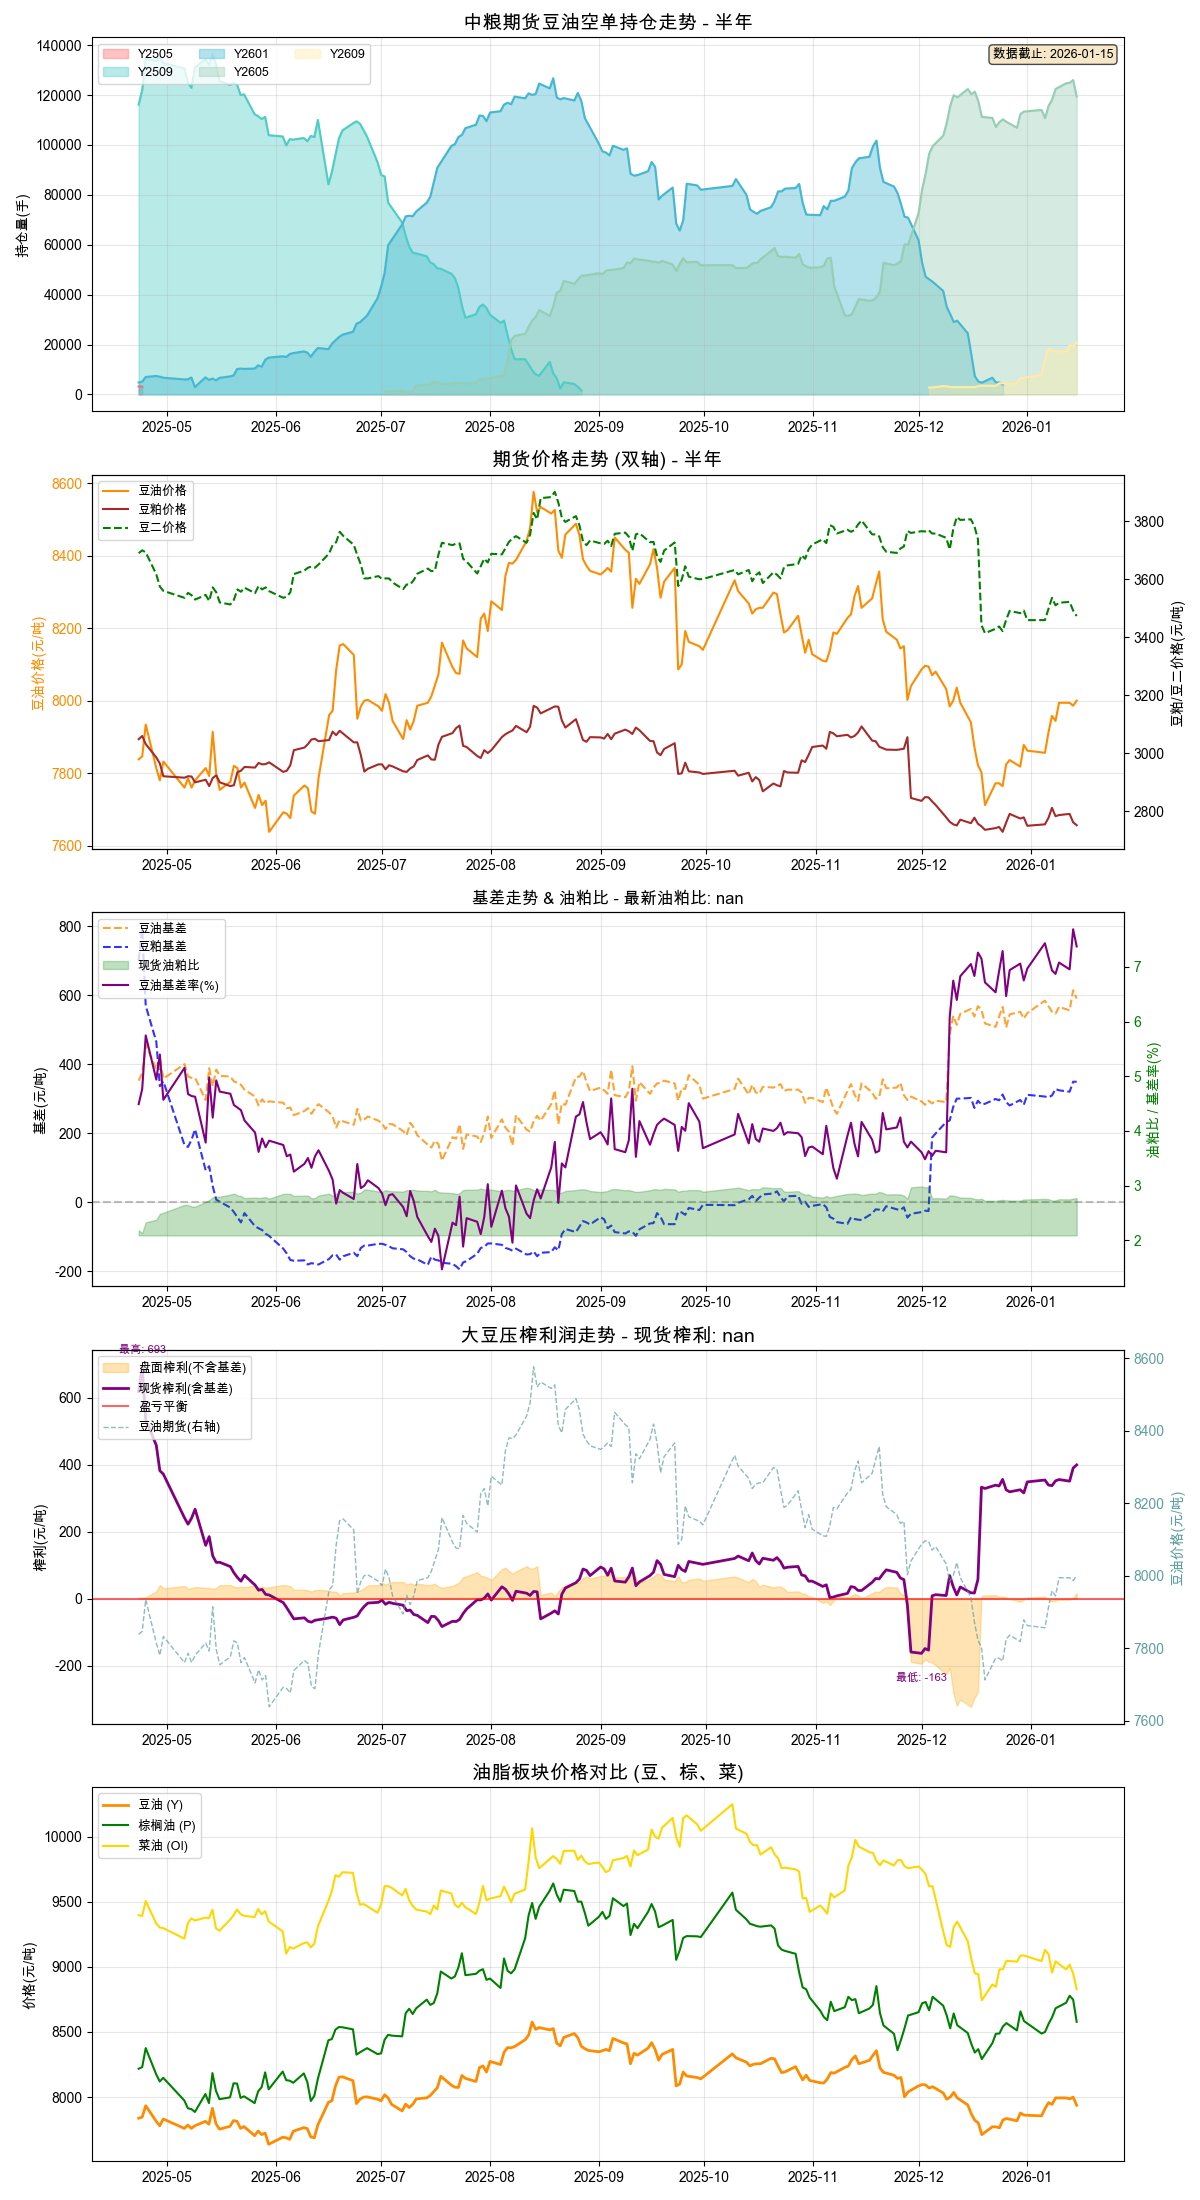
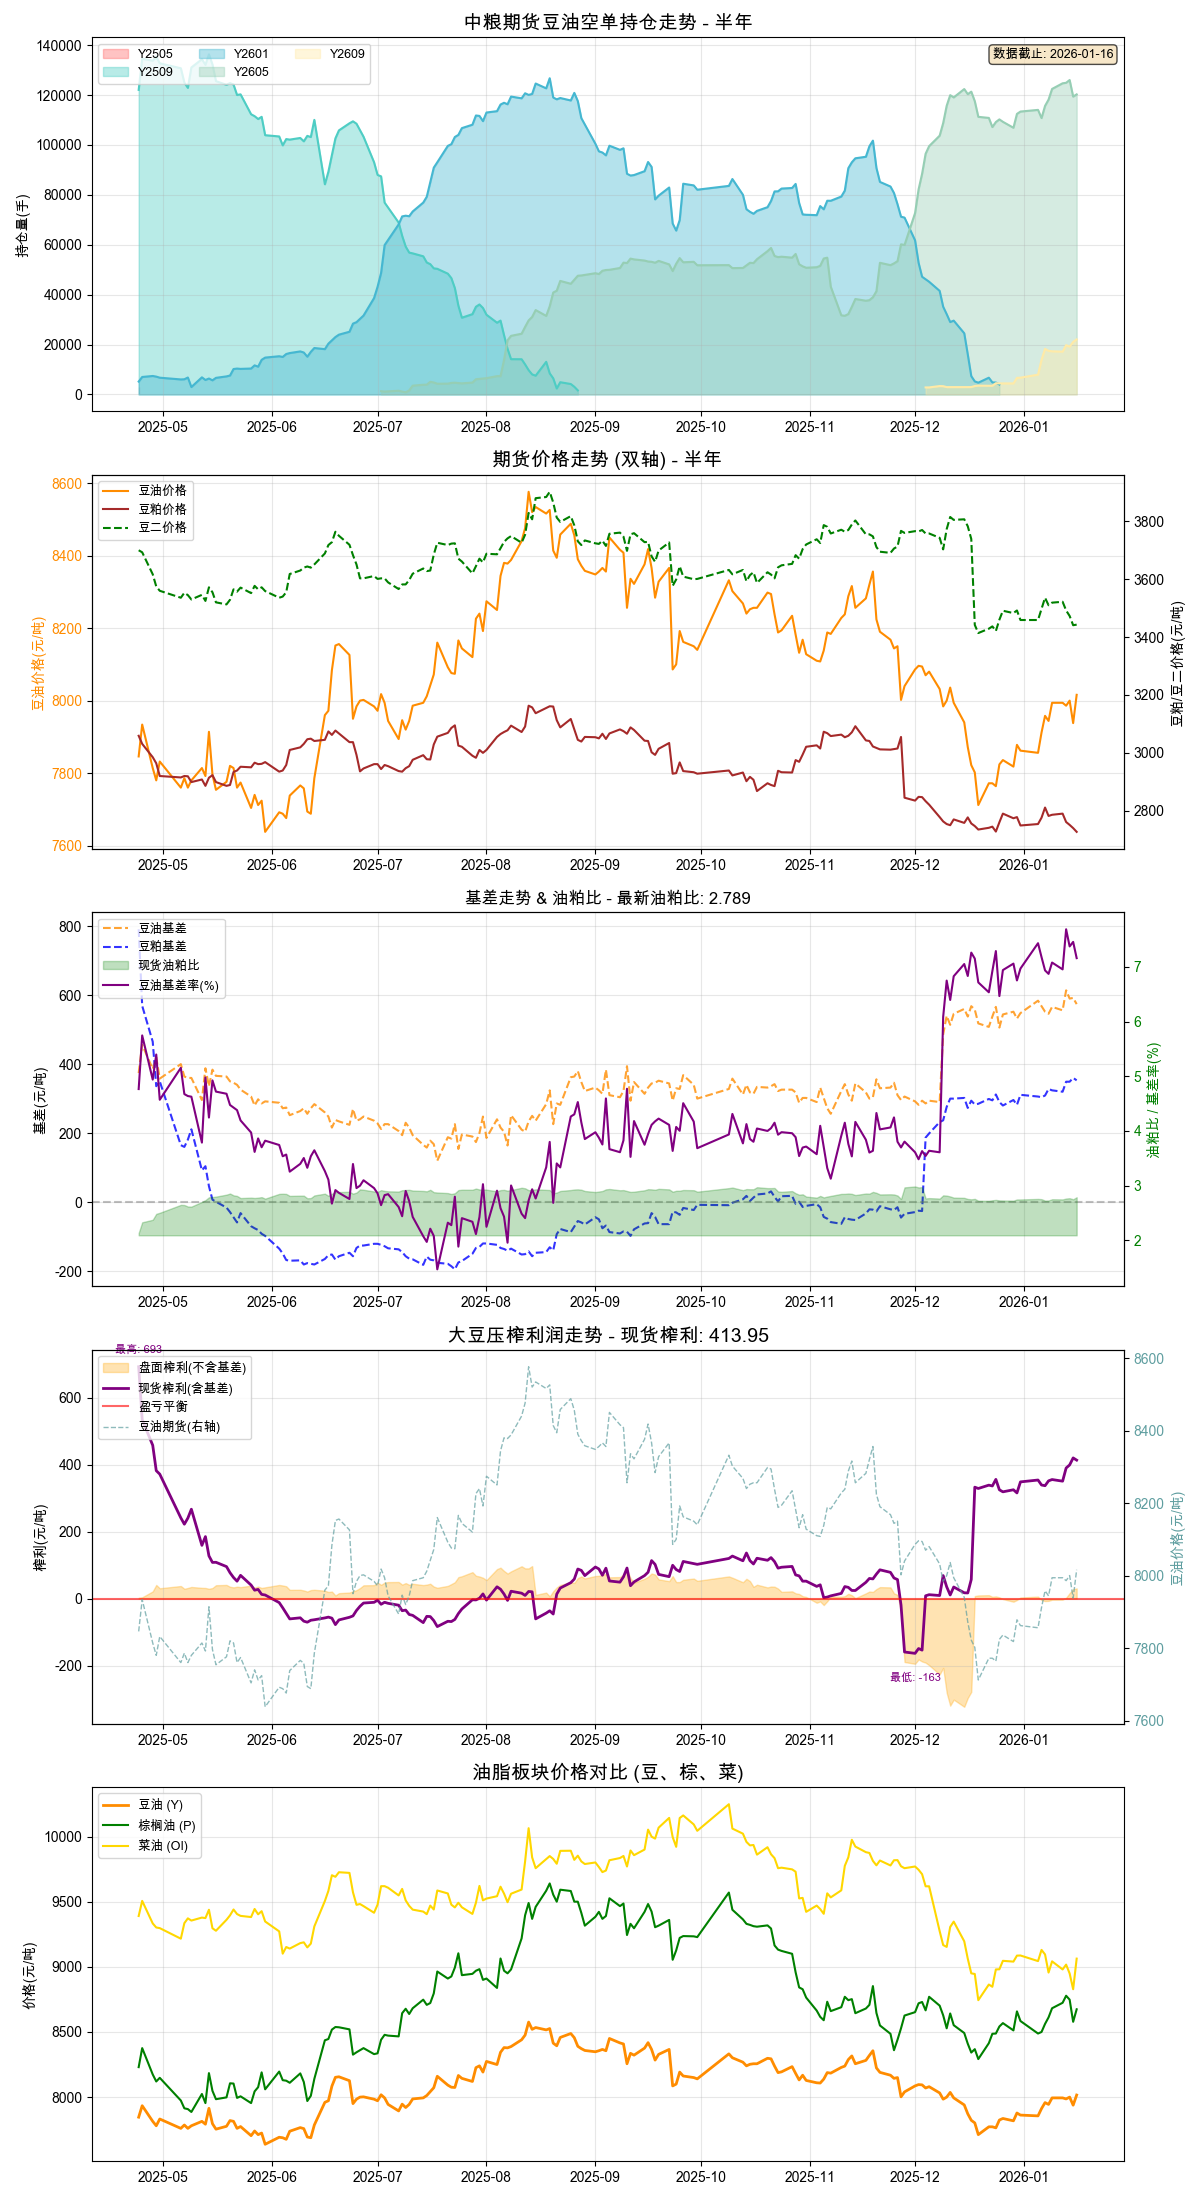
更新: 内容更新 2026-01-17 21:29:31

diff --git a/content/posts/榨利深度分析报告.md b/content/posts/榨利深度分析报告.md
@@ -1,7 +1,7 @@
 ---
 title: "🫘大豆榨利深度分析报告"
-date: 2026-01-16T21:47:51+08:00
-lastmod: 2026-01-16T21:47:51+08:00
+date: 2026-01-16T21:22:43+08:00
+lastmod: 2026-01-16T21:22:43+08:00
 description: "自动化生成的压榨利润深度报告，引用原始版本高精绘图和 DeepSeek AI 逻辑。"
 draft: false
 categories: ["期货分析"]
@@ -18,53 +18,7 @@ image: /images/charts/margin_chart_半年.png
 
 ## 🤖 AI 首席分析师解读
 
-# 大豆压榨利润深度点评：高利润下的策略分化与风险审视
-
-## 一、 利润周期定位：处于历史高位，均值回归压力凸显
-
-**当前榨利（413.95元/吨）** 远超半年均值（78.18元/吨），并已逼近半年区间上沿（693元/吨）。从周期角度看，当前利润水平处于**显著高估区间**。71.1%的半年胜率表明，过去半年维持正向榨利是大概率事件，但当前利润已透支了大部分利好预期。这种极端高位通常由**原料成本（大豆）与产成品（豆油、豆粕）价格阶段性错配**驱动，往往不可持续。历史经验表明，当榨利触及区间上沿后，通常会通过“大豆价格上涨”或“豆油/豆粕价格下跌”的路径进行均值回归。
-
-**核心判断**：当前榨利是**周期性高点而非新常态**，油厂应视为锁定利润的窗口期，而非扩张产能的信号。
-
-## 二、 基差结构分析：油强粕弱格局下的利润拆解与策略影响
-
-最新基差呈现 **“豆油极端强势（+574），豆粕相对中性（+353）”** 的格局。这对油厂利润策略产生截然不同的影响：
-
-1.  **对已点价（采购）大豆的油厂**：
-    *   **高豆油基差是利润核心贡献点**。现货豆油价格大幅升水期货，油厂在现货市场的销售利润极为丰厚。这鼓励油厂**加快豆油现货销售节奏，甚至超卖**，以兑现高基差红利。同时，可在期货盘面对等建立豆油多头头寸，以维持未来的库存风险敞口。
-    *   **豆粕基差提供稳定支撑**。353的基差水平虽不及豆油亮眼，但仍处于健康区间，保证了豆粕现货销售的利润基础，使得整体压榨利润“锦上添花”。
-
-2.  **对未点价（待采购）大豆的油厂**：
-    *   **高基差构成巨大风险**。当前高利润建立在现货产成品价格高企的基础上。如果油厂现在以高价采购未来船期的大豆，但未来数月豆油、豆粕现货价格（尤其是基差）下跌，那么当前的高额盘面榨利将迅速被侵蚀。因此，**采购决策必须与产成品套保紧密联动**。
-    *   **策略建议**：在采购远期大豆的同时，**应立即在期货市场卖出对应量的豆油和豆粕合约，锁定当前高额的盘面压榨利润**。不宜裸敞口等待。
-
-## 三、 豆油下游采购决策与套保建议
-
-对于豆油下游生产商（如食品加工、精炼厂）：
-
-1.  **现货采购决策**：
-    *   **当前的高现货价格（期货价+高基差）是明确的负面信号**。不建议在此位置进行大规模、长期的现货囤货。应采取 **“低库存、按需采购”** 的保守策略。高基差意味着为现货支付了极高的溢价，这通常发生在现货短期紧缺或情绪亢奋时期，后续基差收敛（下跌）的概率大于走阔。
-    *   若生产急需，可进行小批量、多频次的采购，避免单次大量建仓。
-
-2.  **期货与套保建议**：
-    *   **绝对价格层面**：当前豆油期货价格叠加历史性高基差，综合绝对价格已处于高风险区域。**不宜单边做多期货以建立虚拟库存**。
-    *   **套期保值层面**：
-        *   **对于已持有高价现货的企业**：应利用期货市场进行**卖出套保**，以对冲未来现货价格下跌的风险。可以在期货市场卖出与现货头寸对应的合约。
-        *   **对于未来有采购需求的企业**：可考虑采取 **“期货建仓+等待基差下跌后点价”** 的策略。即在期货价格相对低位（如出现回调时）逐步建立多头头寸，锁定原料成本的大致范围。同时，耐心等待现货市场情绪降温，**目标是将未来的采购基差谈判至200-300元/吨以下更合理的水平**，再通过基差交易锁定最终成本。当前574的基差水平不应接受。
-
-## 四、 短期持仓与企业避险建议
-
-*   **对于油厂（压榨企业）**：
-    *   **首要行动：锁定利润**。利用当前高企的盘面压榨利润，对已采购的原料和未来的销售进行**完全套保**。可采取“买大豆期货（或持有现货）+卖豆油期货+卖豆粕期货”的套利组合，将413元/吨的利润固化。
-    *   **谨慎对待新订单**：对新签的远期豆油、豆粕销售合同，必须匹配相应的原料采购或期货套保，杜绝“裸卖”。
-    *   **关注基差收敛风险**：制定预案，防范豆油基差快速回落导致的现货销售利润骤降。
-
-*   **对于贸易商及下游企业**：
-    *   **降低敞口，防御为主**。当前市场处于利润与价格的高位，趋势性做多风险极大。应减少投机性库存。
-    *   **利用期权工具**：考虑在采购时，使用**看跌期权**或**领口策略**来保护头寸，以较低成本防范价格暴跌风险，同时保留部分上涨空间。
-    *   **紧盯驱动转换信号**：重点关注南美大豆产量确认、国内大豆到港节奏、以及国家储备政策动向。任何一项出现利空，都可能成为压垮当前高利润、高基差结构的最后一根稻草。
-
-**总结**：当前大豆压榨市场处于**高利润、高基差、高波动**的“三高”脆弱平衡状态。所有市场参与者应摒弃“趋势永续”的幻想，将策略重心从**进攻获利全面转向防守锁利**。历史高位的利润是市场给予的风险补偿，而非馈赠，明智者已开始兑现离场。
+AI 分析连接超时，请关注盘面基差变化。
 
 ---
 
@@ -88,4 +42,4 @@ image: /images/charts/margin_chart_半年.png
 ## 🛠 计算说明
 > 榨利 = (豆油现货价格 × 18.5% + 豆粕现货价格 × 78.5%) - 豆二价格 - 150.0
 > 数据源：交易法门(基差) / Akshare(期货)
-> 更新时间：2026-01-16 21:47:51
+> 更新时间：2026-01-16 21:22:43

diff --git a/分析文章脚本/blog/榨利深度分析报告.md b/分析文章脚本/blog/榨利深度分析报告.md
@@ -1,7 +1,7 @@
 ---
 title: "🫘大豆榨利深度分析报告"
-date: 2026-01-15T23:08:35+08:00
-lastmod: 2026-01-15T23:08:35+08:00
+date: 2026-01-16T21:22:43+08:00
+lastmod: 2026-01-16T21:22:43+08:00
 description: "自动化生成的压榨利润深度报告，引用原始版本高精绘图和 DeepSeek AI 逻辑。"
 draft: false
 categories: ["期货分析"]
@@ -11,8 +11,8 @@ image: /images/charts/margin_chart_半年.png
 
 ## 🛰 数据核心快照
 
-- **最新榨利**: `nan` 元/吨 (压榨成本：150.0)
-- **基差详情**: 豆油 `nan` | 豆粕 `nan`
+- **最新榨利**: `413.95` 元/吨 (压榨成本：150.0)
+- **基差详情**: 豆油 `574` | 豆粕 `353`
 
 ---
 
@@ -42,4 +42,4 @@ AI 分析连接超时，请关注盘面基差变化。
 ## 🛠 计算说明
 > 榨利 = (豆油现货价格 × 18.5% + 豆粕现货价格 × 78.5%) - 豆二价格 - 150.0
 > 数据源：交易法门(基差) / Akshare(期货)
-> 更新时间：2026-01-15 23:08:35
+> 更新时间：2026-01-16 21:22:43
